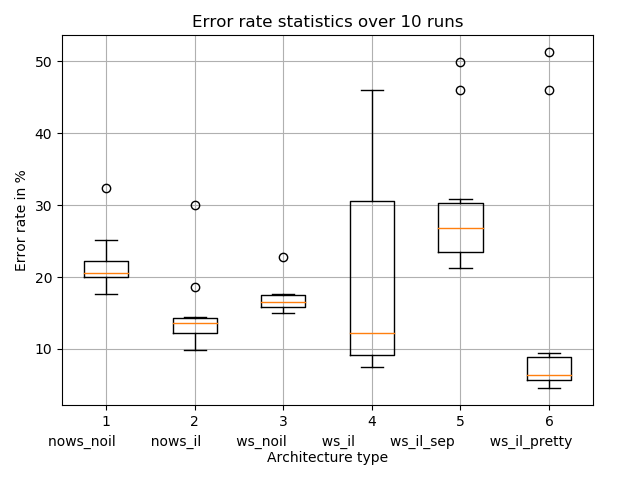
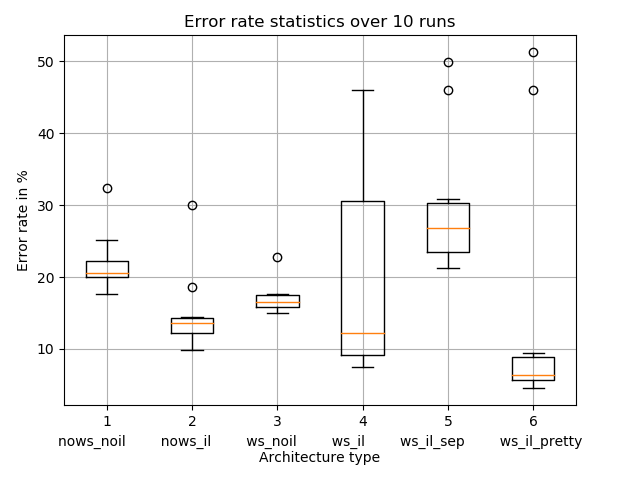
Added standard deviation plot

diff --git a/Project1/Master.py b/Project1/Master.py
@@ -174,7 +174,7 @@ def plot_statistics(keys:np.array,stats:np.array):
     _ = plt.figure()
     plt.boxplot(stats) 
     plt.title('Error rate statistics over 10 runs')
-    xlabel = ''
+    xlabel = '        '
     for k in keys:
         xlabel += str(k) + '        '
     plt.xlabel(xlabel + '\nArchitecture type')
@@ -210,6 +210,19 @@ def generate_statistics():
     outfile.close() 
     return np.array(res_keys), res_final_stat
 
+def computeErrorRateSTD(keys:np.array, stats:np.array):
+    # stats is (10,6) array -> compute std along columns
+    stds  = np.std(stats,axis=0)
+    #print('Standard deviation of each architecture:',stds)
+
+    plt.figure()
+    plt.scatter(keys,stds)
+    plt.title('Standard deviation of the error rate of the different architectures')
+    plt.xlabel('Architecture type')
+    plt.ylabel('Standard deviation')
+    plt.grid(True)
+    plt.tight_layout()
+    plt.savefig('figures/stds.png')
 
 def main(parser:argparse.ArgumentParser):
     global nows_noil_model,nows_il_model,ws_noil_model,ws_il_model,\
@@ -230,6 +243,7 @@ def main(parser:argparse.ArgumentParser):
             infile.close()
 
         plot_statistics(res_final_keys, res_final_stat) 
+        computeErrorRateSTD(res_final_keys, res_final_stat)
         
         plt.show() 
         return 
